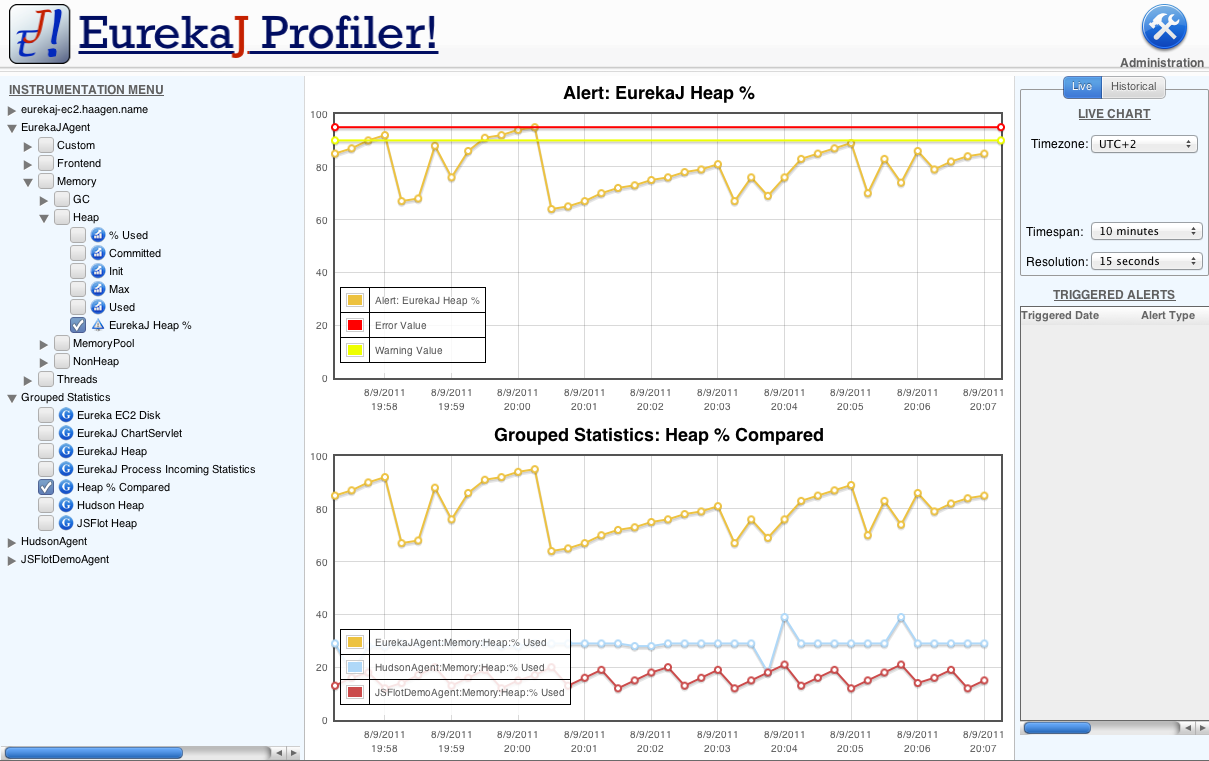
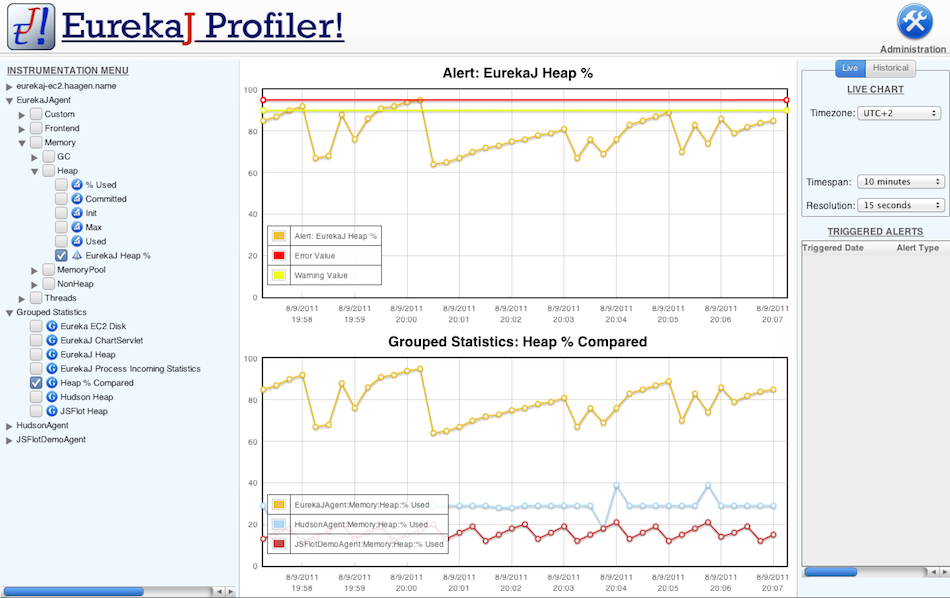
Resizing to 1200px

diff --git a/index.html b/index.html
@@ -9,6 +9,8 @@ title: What is EurekaJ Profiler ?
 
 <p>As the project started, work on a custom Javaagent was planned and started using Javassist as the bytecode library of choice. Later on, BTrace was chosen as the javaagent. BTrace has a large feature set that goes hand in hand with features planned for EurekaJ. Basing the agent on BTrace makes easier to focus the development upon the EurekaJ Manager, meaning that the feature set of the Manager application will be completed earlier.</p>
 
+<p><h2>Screenshot</h2><img src="images/eurekaj_screenshot.png" /></p>
+
 <h2>Contact details</h2>
 Email: <a href="mailto:joachim@haagen.name">joachim@haagen.name</a> <br />
 Twitter: <a href="http://twitter.com/#!/joachimhs">joachimhs</a><br />

diff --git a/stylesheets/master.css b/stylesheets/master.css
@@ -9,7 +9,7 @@ body {
 }
 
 #wrapper {
-	width: 1000px;
+	width: 1200px;
 	  margin: 0 auto;
 	  padding-top: 1em;
 	  -moz-border-radius: 1.5em;
@@ -63,7 +63,7 @@ font-weight: normal;
 
 .mainarea {
 	top: 160px;
-	width: 800px;
+	width: 1000px;
 	position: absolute;
 	float: left;
 	
@@ -114,7 +114,7 @@ color: #ff4433;
 }
 
 #sidebar {
-	left: 850px;
+	left: 1050px;
 	width: 200px;
 	top: 20px;
 	position: relative;
